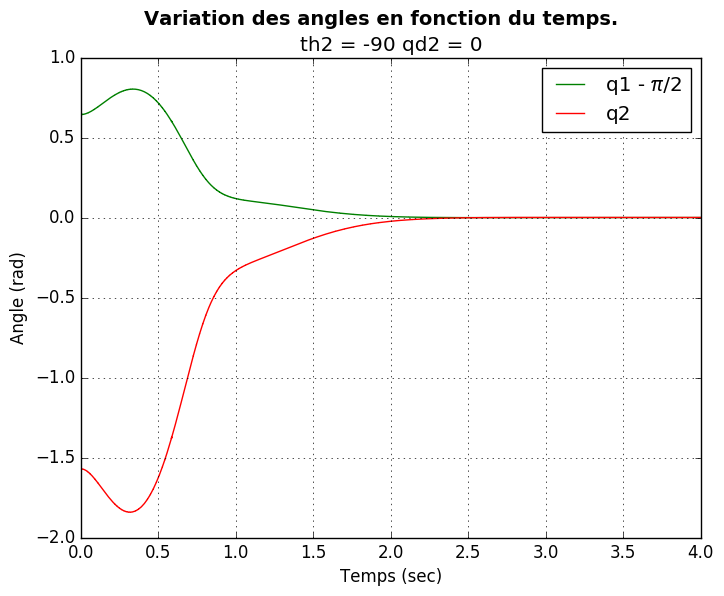
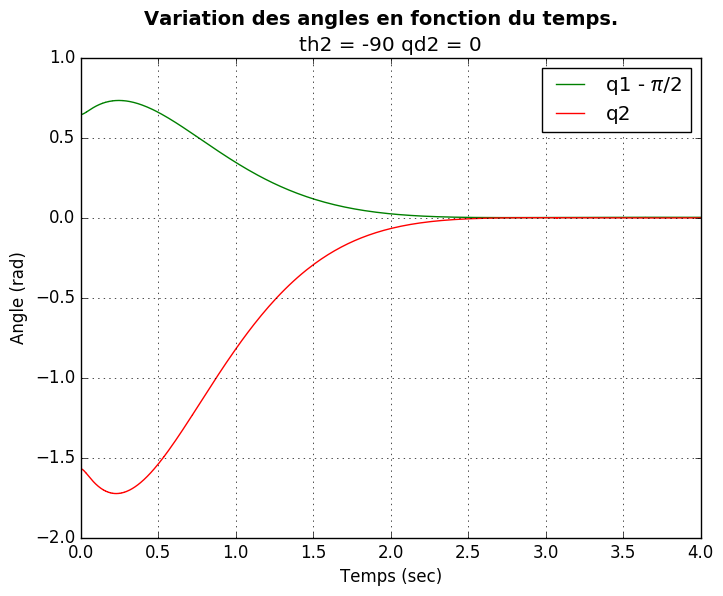
balance v2

diff --git a/Code/readfile.py b/Code/readfile.py
@@ -5,14 +5,14 @@ print("start engine")
 eng = matlab.engine.start_matlab()
 
 
-
-def read_file(file, mode):
+def read_file(file, mode, a=None, ks=1):
     file = open(file, 'r')
     lines = [line.rstrip() for line in file]
+    #print(lines)
     file.close()
     if mode == 0:
         return getGains(lines)
-    else:
+    elif mode == 1:
         t = []
         g = []
         for l in lines:
@@ -26,7 +26,8 @@ def read_file(file, mode):
 
         print("fin calcul gain")
         return g
-
+    else:
+        return getGains2(lines, a, ks)
 
 
 def getGains(lines):
@@ -57,7 +58,7 @@ def getGains(lines):
         for exp in lines[i]:
             tmp = tmp + " " + exp
         tmp += " "
-        #print("avant :", tmp)
+        # print("avant :", tmp)
         lines[i] = tmp.replace(' + 0 ', ' ')  # on retire les -0
         lines[i] = lines[i].replace('- 0 ', ' ')  # les +0
         lines[i] = lines[i].replace(' 0 -', ' -')  # on remplace les 0- par -
@@ -68,11 +69,9 @@ def getGains(lines):
         lines[i] = lines[i].replace(' + ', ' +')  # on remplace les 0- par -
         lines[i] = lines[i].lstrip(' ')
         lines[i] = lines[i].rstrip(' ')
-        #print("apres :", lines[i])
+        # print("apres :", lines[i])
 
-
-
-    #print('qd1 : ', qd1)
+    # print('qd1 : ', qd1)
     ligne0 = lines[0].split(' ')
     for l in ligne0:
         if 'kx' in l:
@@ -96,7 +95,6 @@ def getGains(lines):
     if ligne0 != '':
         a = eval(ligne0)
 
-
     '''
     print("b1 : ", b1)
     print("b2 : ", b2)
@@ -106,7 +104,7 @@ def getGains(lines):
     print("alpha : ", alpha)
     '''
     p = a ** (1 / 4)
-    #print("p : ", p)
+    # print("p : ", p)
 
 
     kp = (4 * p ** 3) / b4
@@ -121,6 +119,113 @@ def getGains(lines):
     return kp, kd, kx, qd1
 
 
+def getGains2(lines, a, kss):
+    '''
+    je donne des valeurs de 1 au kd.. comme ça je peux evaluer la ligne comme une expression mathématique avec le eval
+    '''
+
+    ks = kp = kd = kx = 1
+
+
+    qd1 = gK = gamma1 = gamma2 = beta = 0
+    lines = list(filter(None, lines))
+    if "qd1" in lines[0]:
+        ligne0 = lines[0].replace(' ', '')
+        ligne0 = ligne0.split('qd1=')
+        qd1 = math.radians(float(ligne0[-1]))
+        print("qd", ligne0)
+        lines = lines[1:]
+    for i in range(len(lines[:])):
+        lines[i] = lines[i].split(' ')
+        for j in range(len(lines[i])):
+            lines[i][j] = lines[i][j].replace('^', '**')
+            lines[i][j] = lines[i][j].replace('kdd', 'kx')  # on remplace pour eviter les erreur entre kd et kdd
+            #print(lines[i][j])
+            try:
+                if lines[i][j] not in '-+' and abs(eval(lines[i][j])) < 0.001:  # si la valeur est trop petite
+                    lines[i][j] = '0'
+            except TypeError:
+                print("except", lines[i][j])
+
+    for i in range(len(lines[:])):
+        tmp = ''
+        for exp in lines[i]:
+            tmp = tmp + " " + exp
+        tmp += " "
+        # print("avant :", tmp)
+        lines[i] = tmp.replace(' + 0 ', ' ')  # on retire les -0
+        lines[i] = lines[i].replace('- 0 ', ' ')  # les +0
+        lines[i] = lines[i].replace(' 0 -', ' -')  # on remplace les 0- par -
+        lines[i] = lines[i].replace(' 0 +', ' ')  # on remplace les 0- par -
+        lines[i] = lines[i].replace(' + - ', ' - ')  # on remplace les 0- par -
+        lines[i] = lines[i].replace(' - + ', ' - ')  # on remplace les 0- par -
+        lines[i] = lines[i].replace(' - ', ' -')  # on remplace les 0- par -
+        lines[i] = lines[i].replace(' + ', ' +')  # on remplace les 0- par -
+        lines[i] = lines[i].lstrip(' ')
+        lines[i] = lines[i].rstrip(' ')
+        print("apres :", lines[i])
+
+    # print('qd1 : ', qd1)
+    ligne0 = lines[0].split(' ')
+    for l in ligne0:
+        if 'kx' in l:
+            gK = eval(l)
+        else:
+            print("Error in lambda^3")
+
+    ligne0 = lines[1].split(' ')
+    for l in ligne0:
+        if 'kd' in l:
+            pass
+            t = eval(l)
+            if t != gK:
+                print("gK !=  dans lambda^3 et Lambda^2 ")
+            #b3 = eval(l)
+        elif 'ks' in l:
+
+            gamma1 = eval(l)
+        #elif l != '':
+        #	alpha = -eval(l)
+        else :
+            beta = eval(l)
+
+    ligne0 = lines[2]
+    if 'kp' in ligne0:
+        t = eval(ligne0)
+        if t != gK:
+            print("gK !=  dans lambda^3 et Lambda^2 ")
+
+    ligne0 = lines[3]
+    if 'ks' in ligne0:
+        s = ligne0.split('*')[0]
+        print(s)
+        gamma2 = eval(s)
+
+    # qd1 = gK = gamma1 = gamma2 = beta = 0
+    print("qd1 : ", qd1)
+    print("gK : ", gK)
+    print("gamma1 : ", gamma1)
+    print("gamma2 : ", gamma2)
+    print("beta : ", beta)
+
+    p4 = (gamma2 * kss)/a
+    print("p4 : ", p4)
+    p = p4 ** (1/4)
+    # print("p : ", p)
+
+
+    kp = (4 * a * p ** 3) / gK
+    kd = (6 * a * p ** 2 - beta - gamma1 * kss) / gK
+    kx = (4 * p * a) / gK
+
+
+    print("kp : ", kp)
+    print("kd : ", kd)
+    print("kdd : ", kx)
+
+    return kp, kd, kx, qd1
+
+
 def send_val_qd2(qd2):
     fic_vals = open("Data/vals_qd.txt", "w")
     fic_vals.write("qd2 = " + str(math.degrees(qd2)) + '\n')
@@ -131,6 +236,12 @@ def calcul_gains_m():
     print("calcul_gains")
     eng.calcul_gains(nargout=0)
     print("fin")
+
+def calcul_gains_v2_m():
+    print("calcul_gain_version2")
+    eng.calcul_gain_version2(nargout=0)
+    print("fin")
+
 
 def calcul_gains_tracking_m():
     print("calcul_gains tracking")

diff --git a/Code/balance_v2.py b/Code/balance_v2.py
@@ -56,7 +56,7 @@ for i in range(len(vals_qd2)):
     t += [np.arange(0.0 + i * 10, 10*(i+1), dt)]
 """
 
-
+ks = -100
 
 
 def torque(state, t):
@@ -80,7 +80,7 @@ def torque(state, t):
     dL = - g * (m1 * x1 + m2 * x2)
     ddL = - g * (m1 * dx1 + m2 * dx2)
 
-    tau = kdd * ddL + kd * dL + kp * Moment + ks(qd2 - q2) + taug
+    tau = kdd * ddL + kd * dL + kp * Moment + ks * (qd2 - q2) + taug
     tq = tau
 
     return tq
@@ -134,8 +134,12 @@ def maj_param():
         th2 = math.degrees(qd2)
     qd2 = vals_qd2[it]
     send_val_qd2(qd2)
-    calcul_gains_m()
-    kp, kd, kdd, kd, ks, qd1 = read_file_2("Data/gains_v2.txt", 0)
+    calcul_gains_v2_m()
+    c1 = m1 * lc1 ** 2 + m2 * l1 ** 2 + I1
+    c2 = m2 * lc2 ** 2 + I2
+    c3 = m2 * l1 * lc2
+    a = c1 * c2 - (c3 * cos(qd2))**2
+    kp, kd, kdd, qd1 = read_file("Data/gains_v2.txt", 2, a=a, ks=ks)
     it += 1
 # th1 et th2 sont les angles initiaux (degres)
 # dth1 et dth2 sont leurs derivees respectives (les vitesses angulaires, en degres/s)

diff --git a/Code/calcul_gain_version2.m b/Code/calcul_gain_version2.m
@@ -110,13 +110,14 @@ A = vpa(A);
 syms x
 polynome = charpoly(A);
 strcmp(class(polynome(2)),'sym');
-c = coeffs(polynome(2), kdd)
-strcmp(class(vpa(c)),'sym')
+c = coeffs(polynome(3), ks);
+strcmp(class(vpa(c)),'sym');
 % Cr�ation d'un fichier o� on va mettre tout les coef du poly
 % caract�ristique et la bonne valeur de qd1
 fid = fopen('Data/gains_v2.txt','w');
 fprintf(fid,'qd1 = %s\n \n',radtodeg(vpa(val_qd1)));
 for i = 2:5
     fprintf(fid,'%s\n \n',polynome(i));
+    polynome(i)
 end
 fclose(fid);

diff --git a/Code/plots.py b/Code/plots.py
@@ -15,7 +15,7 @@ def do_plot(q1, q2, t, qd1, qd2):
 	ax2.plot(t, q2, 'r-', label="q2")
 	#plt.legend(bbox_to_anchor=(1, 1), loc=2, borderaxespad=0.)
 	ax2.legend(loc="upper right")
-	#plt.savefig('Data/plots/plot_'+str(s2)+'.png', bbox_inches='tight')
+	plt.savefig('Data/plots/plot_'+str(s2)+'.png', bbox_inches='tight')
 	plt.close(fig2)
 
 
